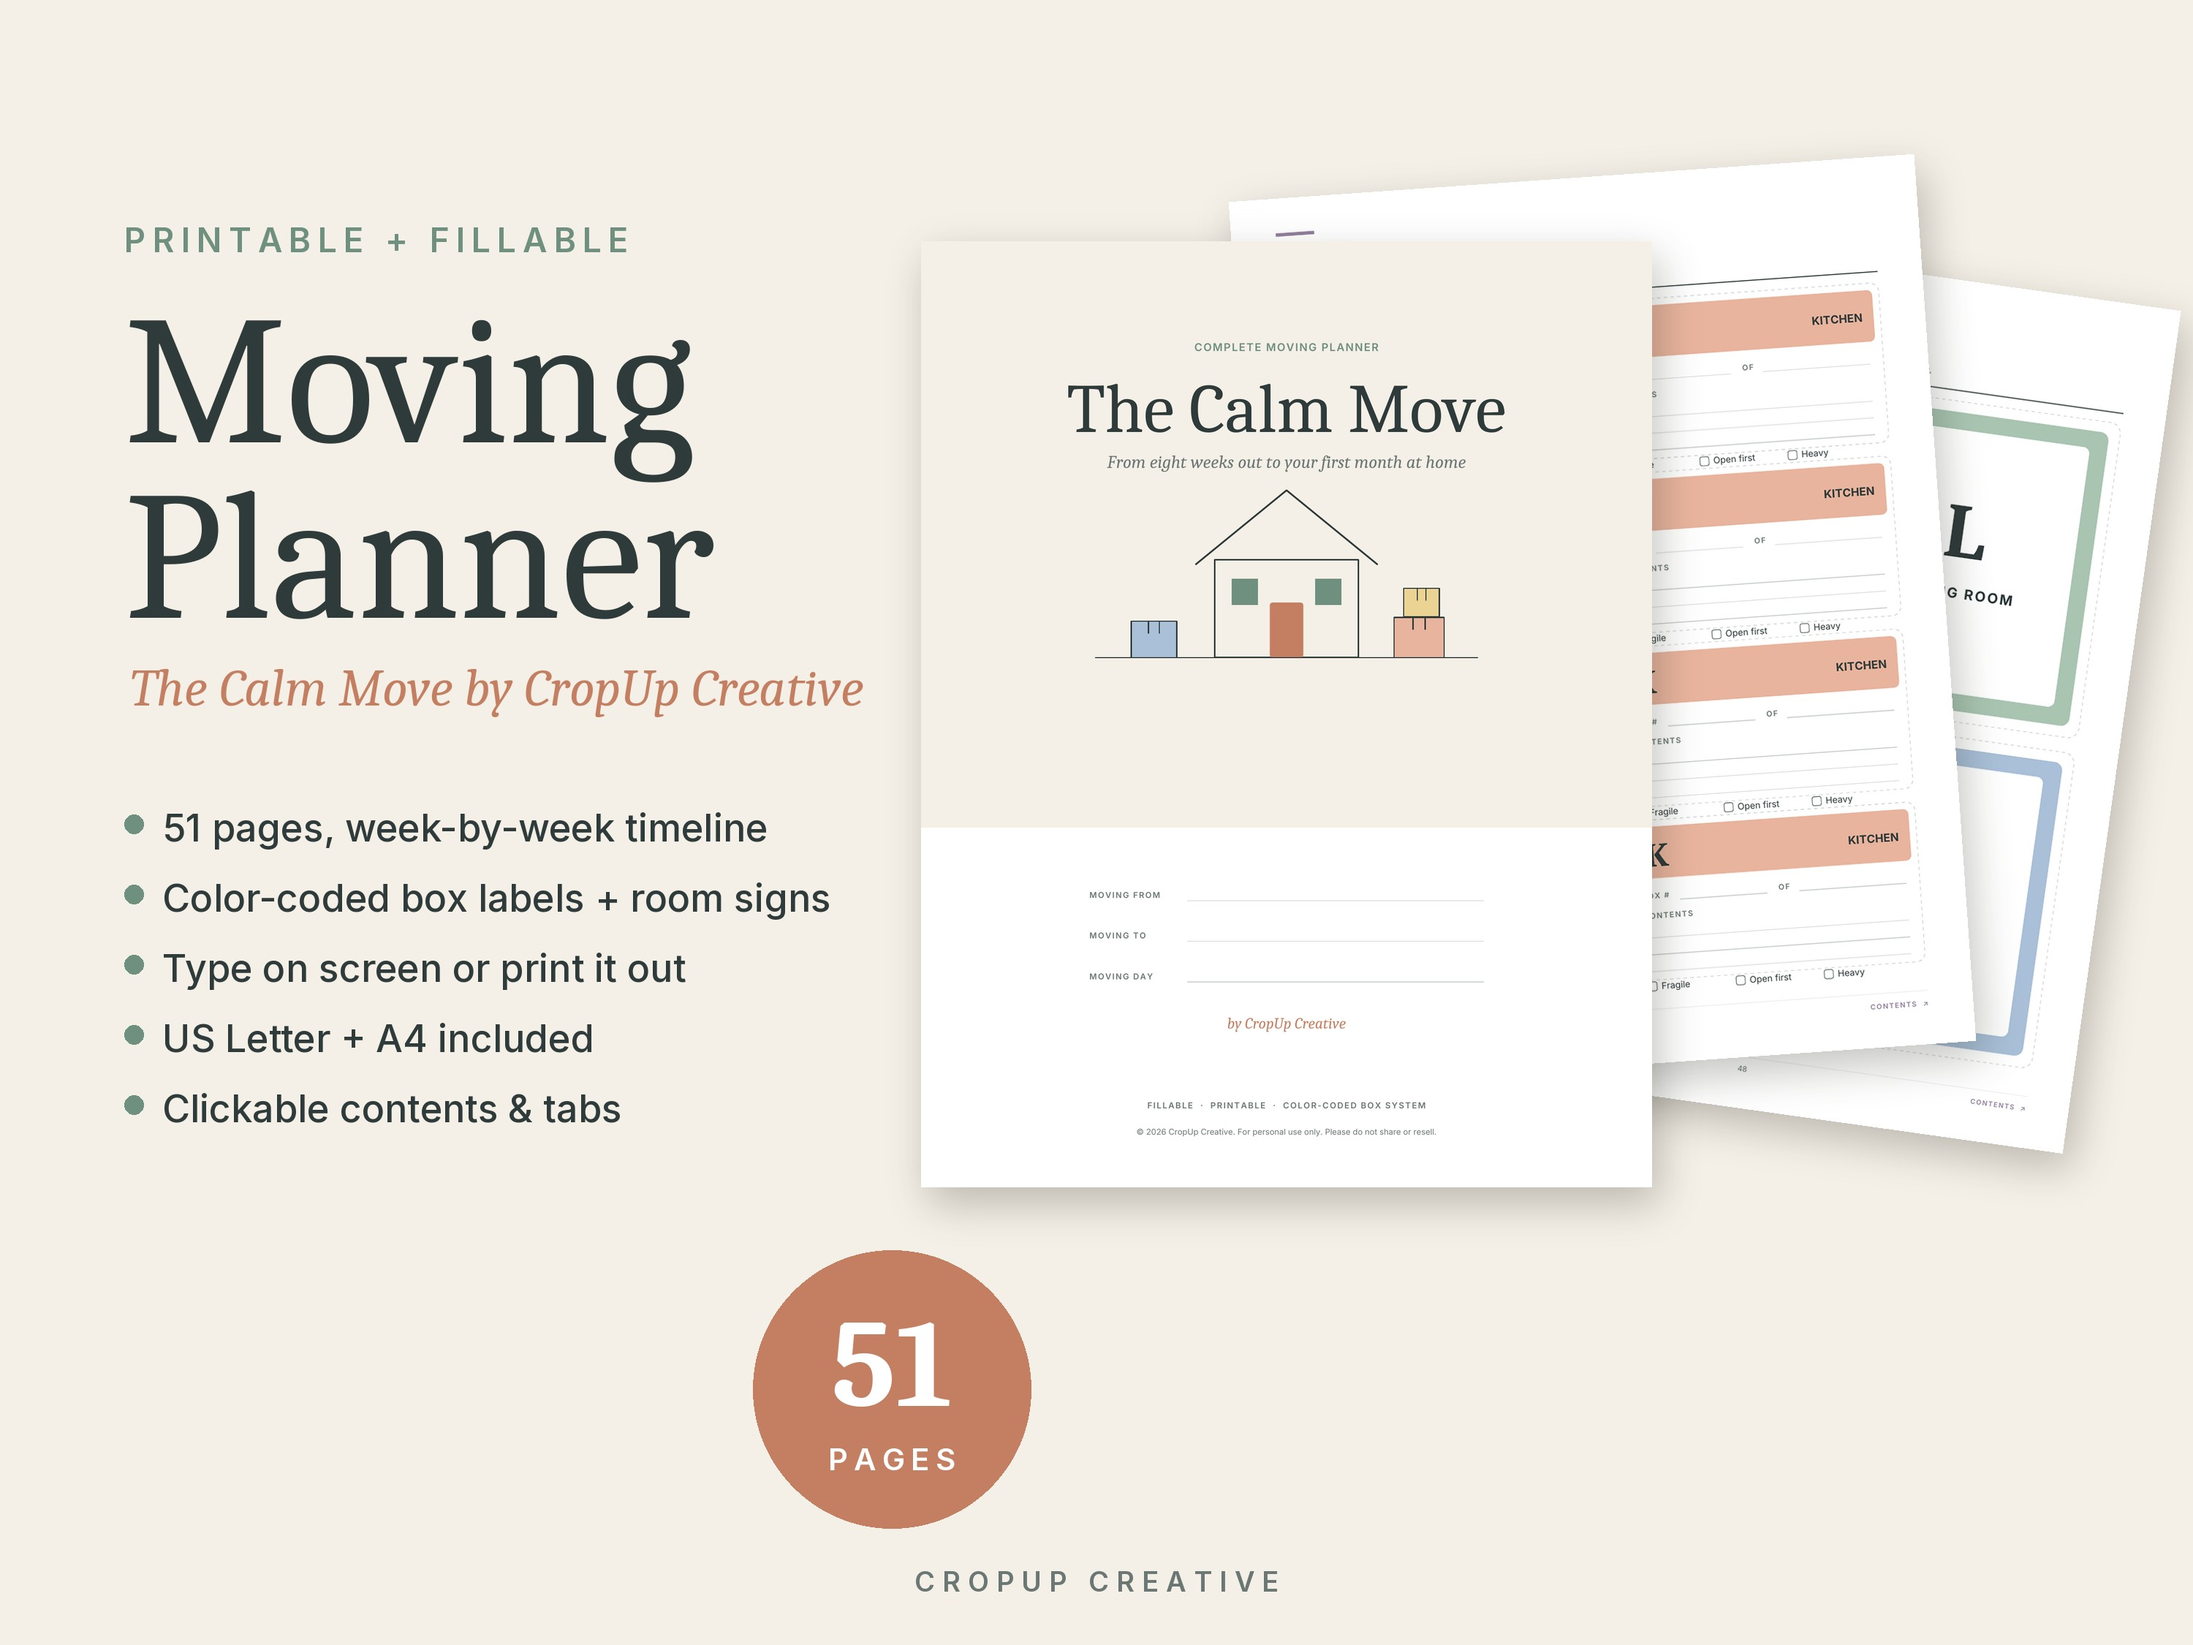
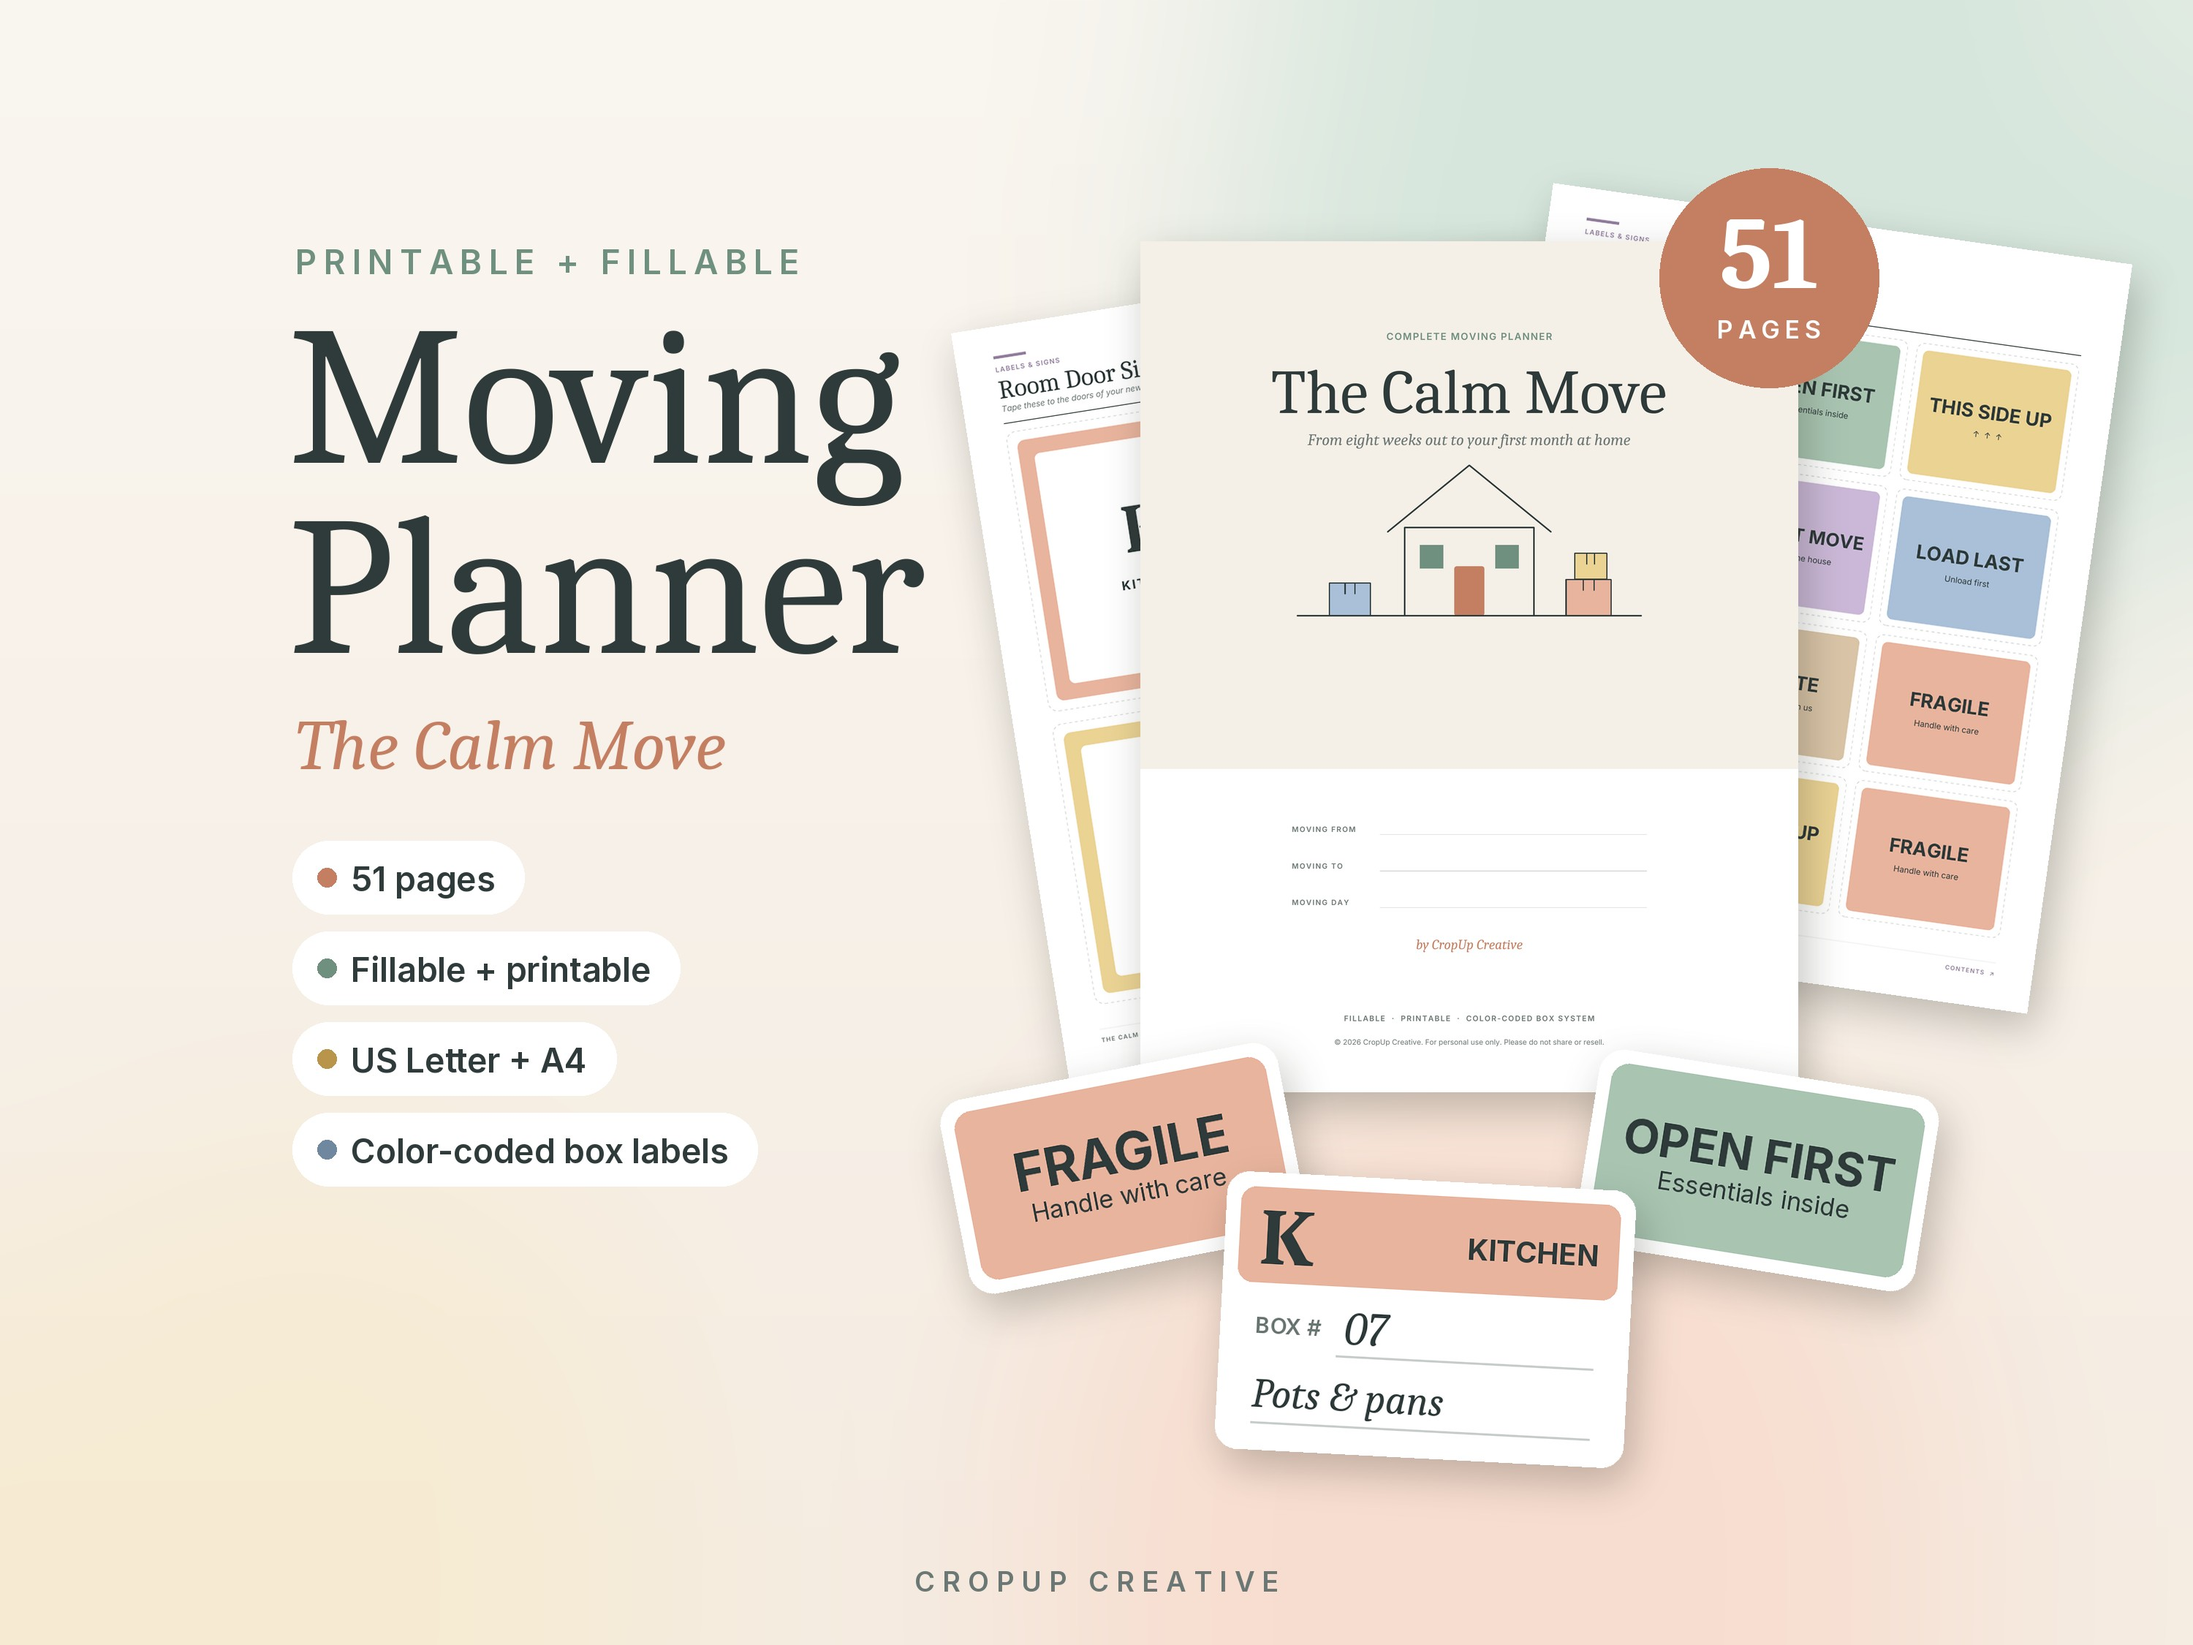
Redesign the listing hero image
Soft pastel background, colorful label and door-sign pages fanned behind
the cover, cut-out sticker props, and feature pills, all kept inside the
square-crop safe zone for Etsy thumbnails.

Claude-Session: https://claude.ai/code/session_018HzYXygsCUf47b37k2ezYL

diff --git a/etsy/moving-planner/make_mockups.py b/etsy/moving-planner/make_mockups.py
@@ -148,31 +148,97 @@ def filled_sample():
 
 
 # ---------------------------------------------------------------- images
+def soft_background(top, bottom, blobs):
+    """Vertical gradient with large blurred color blobs."""
+    grad = Image.new("RGB", (1, H))
+    for yy in range(H):
+        t = yy / (H - 1)
+        grad.putpixel((0, yy), tuple(int(a + (b - a) * t) for a, b in zip(top, bottom)))
+    img = grad.resize((W, H))
+    for cx, cy, r, col in blobs:
+        # blur a mask rather than an RGBA layer, so no dark fringes bleed in
+        mask = Image.new("L", (W, H), 0)
+        ImageDraw.Draw(mask).ellipse([cx - r, cy - r, cx + r, cy + r], fill=col[3])
+        mask = mask.filter(ImageFilter.GaussianBlur(160))
+        img.paste(Image.new("RGB", (W, H), col[:3]), (0, 0), mask)
+    return img
+
+
+def sticker(w, h, color, title, sub, title_font, sub_font):
+    """A cut-out label with a white margin, like the ones in the planner."""
+    t = Image.new("RGBA", (w, h), (0, 0, 0, 0))
+    d = ImageDraw.Draw(t)
+    d.rounded_rectangle([0, 0, w - 1, h - 1], radius=34, fill=WHITE)
+    d.rounded_rectangle([18, 18, w - 19, h - 19], radius=24, fill=color)
+    tw = d.textlength(title, font=title_font)
+    tb = d.textbbox((0, 0), title, font=title_font)
+    th = tb[3] - tb[1]
+    gap = 18 if sub else 0
+    sb = d.textbbox((0, 0), sub, font=sub_font) if sub else (0, 0, 0, 0)
+    total = th + gap + (sb[3] - sb[1])
+    y0 = (h - total) / 2 - tb[1]
+    d.text(((w - tw) / 2, y0), title, font=title_font, fill=INK)
+    if sub:
+        sw = d.textlength(sub, font=sub_font)
+        d.text(((w - sw) / 2, y0 + tb[1] + th + gap - sb[1]), sub, font=sub_font, fill=INK)
+    return t
+
+
+def box_label_sticker(w, h, color, code, room, note):
+    t = Image.new("RGBA", (w, h), (0, 0, 0, 0))
+    d = ImageDraw.Draw(t)
+    d.rounded_rectangle([0, 0, w - 1, h - 1], radius=30, fill=WHITE)
+    d.rounded_rectangle([20, 20, w - 21, 150], radius=20, fill=color)
+    d.text((48, 26), code, font=SERIF_B(110), fill=INK)
+    rw = d.textlength(room, font=SANS_B(40))
+    d.text((w - 48 - rw, 66), room, font=SANS_B(40), fill=INK)
+    d.text((48, 190), "BOX #", font=SANS_SB(30), fill=MUTED)
+    d.text((170, 172), "07", font=SERIF_I(64), fill=INK)
+    d.line([160, 246, w - 48, 246], fill=(201, 207, 204), width=3)
+    d.text((48, 270), note, font=SERIF_I(56), fill=INK)
+    d.line([48, 342, w - 48, 342], fill=(201, 207, 204), width=3)
+    return t
+
+
 def img1_hero(pk):
-    img = canvas()
+    img = soft_background((250, 246, 240), (245, 236, 226), [
+        (2350, 380, 700, (214, 230, 220, 255)),
+        (2050, 2050, 620, (247, 221, 207, 255)),
+        (420, 2050, 480, (246, 234, 206, 200)),
+    ])
     d = ImageDraw.Draw(img)
-    # left: copy
-    x = 170
-    caps(d, x, 300, "Printable + fillable", SANS_SB(46), SAGE, 9)
-    d.text((x, 380), "Moving", font=SERIF(250), fill=INK)
-    d.text((x, 620), "Planner", font=SERIF(250), fill=INK)
-    d.text((x + 8, 900), "The Calm Move by " + SHOP, font=SERIF_I(72), fill=CLAY)
-    y = 1100
-    for s in ["51 pages, week-by-week timeline", "Color-coded box labels + room signs",
-              "Type on screen or print it out", "US Letter + A4 included", "Clickable contents & tabs"]:
-        d.ellipse([x, y + 14, x + 26, y + 40], fill=SAGE)
-        d.text((x + 52, y), s, font=SANS_M(52), fill=INK)
-        y += 96
-    # right: fanned pages
-    paste_page(img, page_img(pk["Room door signs 1"]), 1930, 300, 900, angle=-8)
-    paste_page(img, page_img(pk["Box labels: Kitchen"]), 1680, 210, 940, angle=4)
-    paste_page(img, page_img(1), 1260, 330, 1000)
-    # badge
-    cx, cy, r = 1220, 1900, 190
+    # ---- copy (left, inside the square-crop safe zone x 375..2625)
+    x = 400
+    caps(d, x + 4, 330, "Printable + fillable", SANS_SB(46), SAGE, 9)
+    d.text((x - 6, 390), "Moving", font=SERIF(270), fill=INK)
+    d.text((x - 6, 650), "Planner", font=SERIF(270), fill=INK)
+    d.text((x + 4, 965), "The Calm Move", font=SERIF_I(96), fill=CLAY)
+    y = 1150
+    for s, col in [("51 pages", CLAY), ("Fillable + printable", SAGE), ("US Letter + A4", (184, 149, 74)),
+                   ("Color-coded box labels", (111, 136, 160))]:
+        f = SANS_SB(46)
+        w = d.textlength(s, font=f) + 2 * 40 + 40
+        d.rounded_rectangle([x, y, x + w, y + 100], radius=50, fill=WHITE)
+        d.ellipse([x + 34, y + 37, x + 60, y + 63], fill=col)
+        d.text((x + 80, y + 24), s, font=f, fill=INK)
+        y += 124
+    # ---- composition (right)
+    paste_page(img, page_img(pk["Room door signs 1"]), 1300, 330, 800, angle=9)
+    paste_page(img, page_img(pk["Special labels"]), 1980, 250, 800, angle=-8)
+    paste_page(img, page_img(1, dpi=200), 1560, 330, 900)
+    # loose cut-out labels as props
+    paste_page(img, sticker(470, 270, (233, 180, 158), "FRAGILE", "Handle with care", SANS_B(72), SANS(34)),
+               1280, 1420, 470, angle=11)
+    paste_page(img, sticker(470, 270, (169, 197, 178), "OPEN FIRST", "Essentials inside", SANS_B(64), SANS(34)),
+               2150, 1430, 470, angle=-9)
+    paste_page(img, box_label_sticker(560, 380, (233, 180, 158), "K", "KITCHEN", "Pots & pans"),
+               1660, 1600, 560, angle=-3)
+    # badge on the cover corner
     d = ImageDraw.Draw(img)
+    cx, cy, r = 2420, 380, 150
     d.ellipse([cx - r, cy - r, cx + r, cy + r], fill=CLAY)
-    text_c(d, cx, cy - 130, "51", SERIF_B(170), WHITE)
-    caps(d, cx, cy + 70, "pages", SANS_SB(42), WHITE, 8, center=True)
+    text_c(d, cx, cy - 112, "51", SERIF_B(140), WHITE)
+    caps(d, cx, cy + 50, "pages", SANS_SB(34), WHITE, 7, center=True)
     save(img, "01-hero.jpg")
 
 
